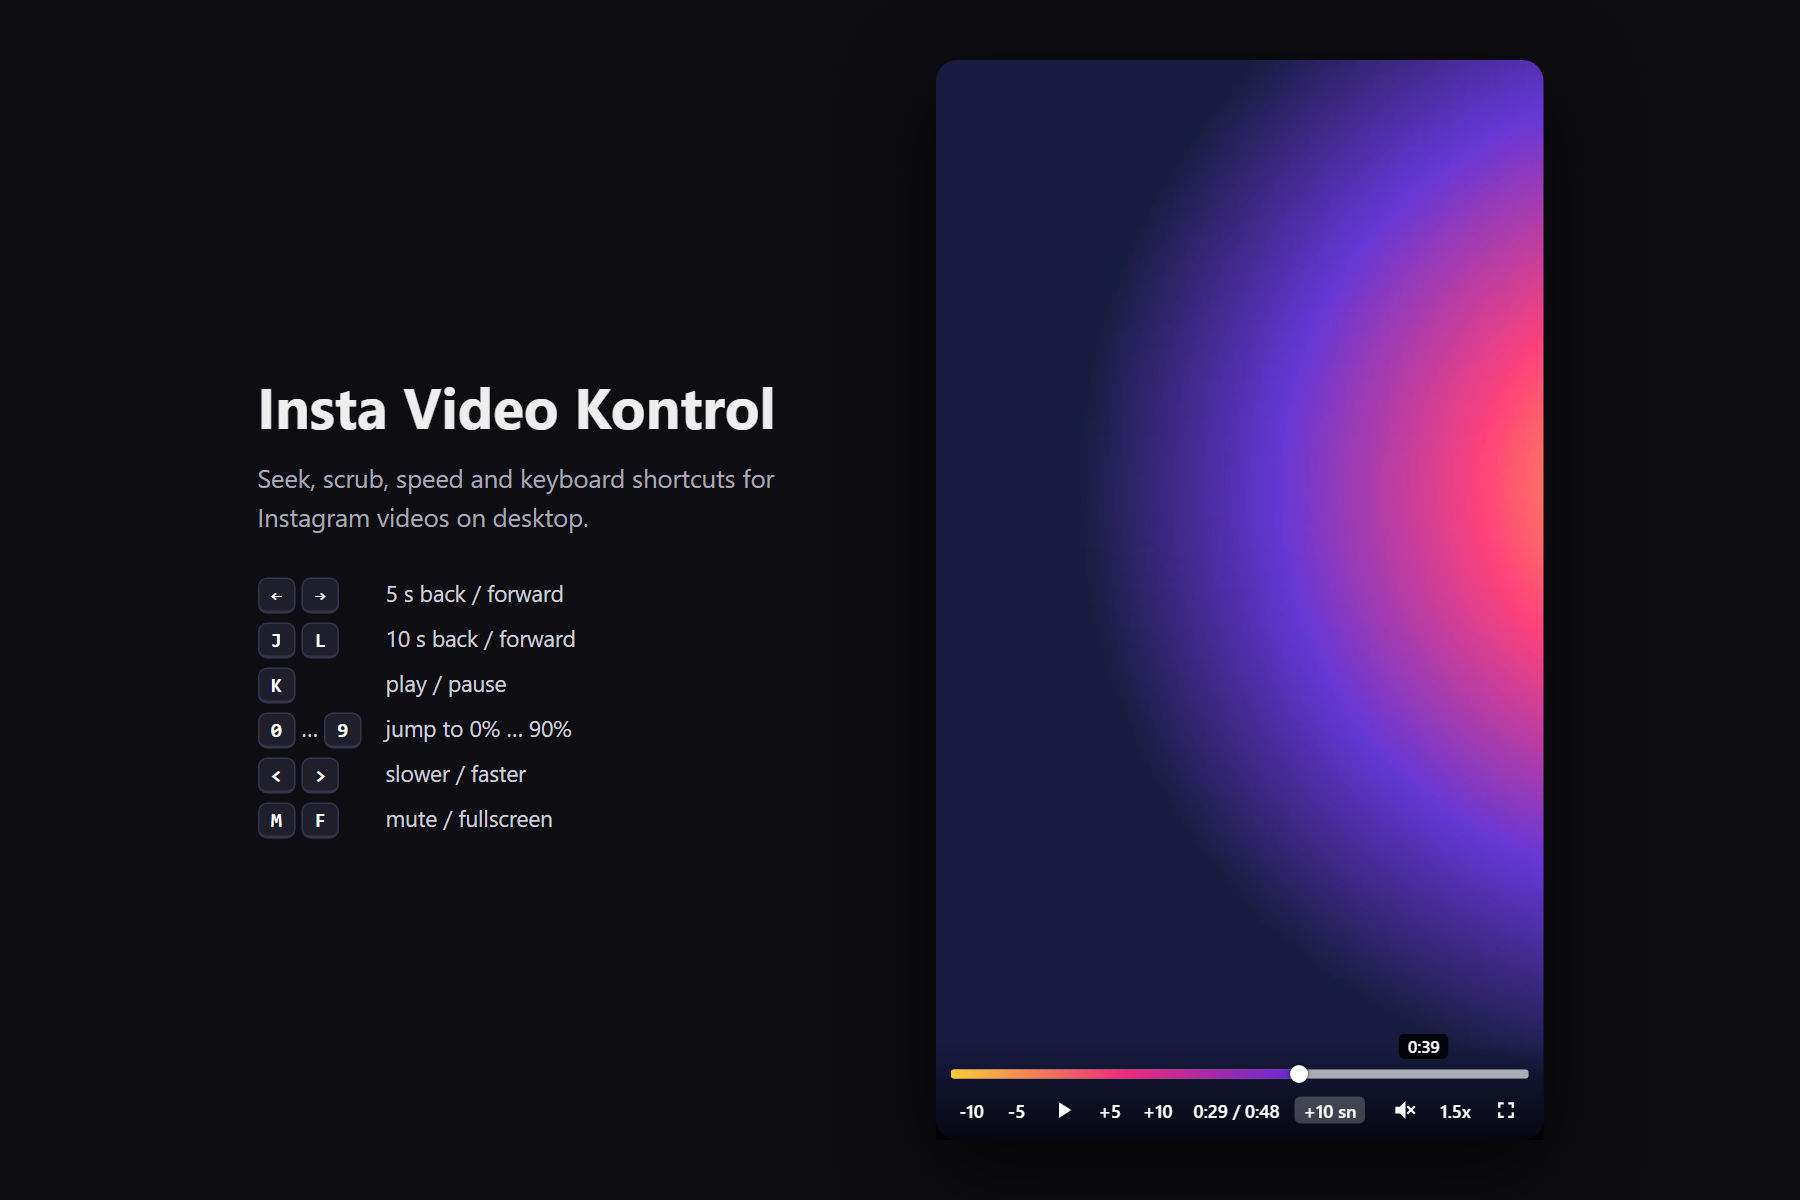
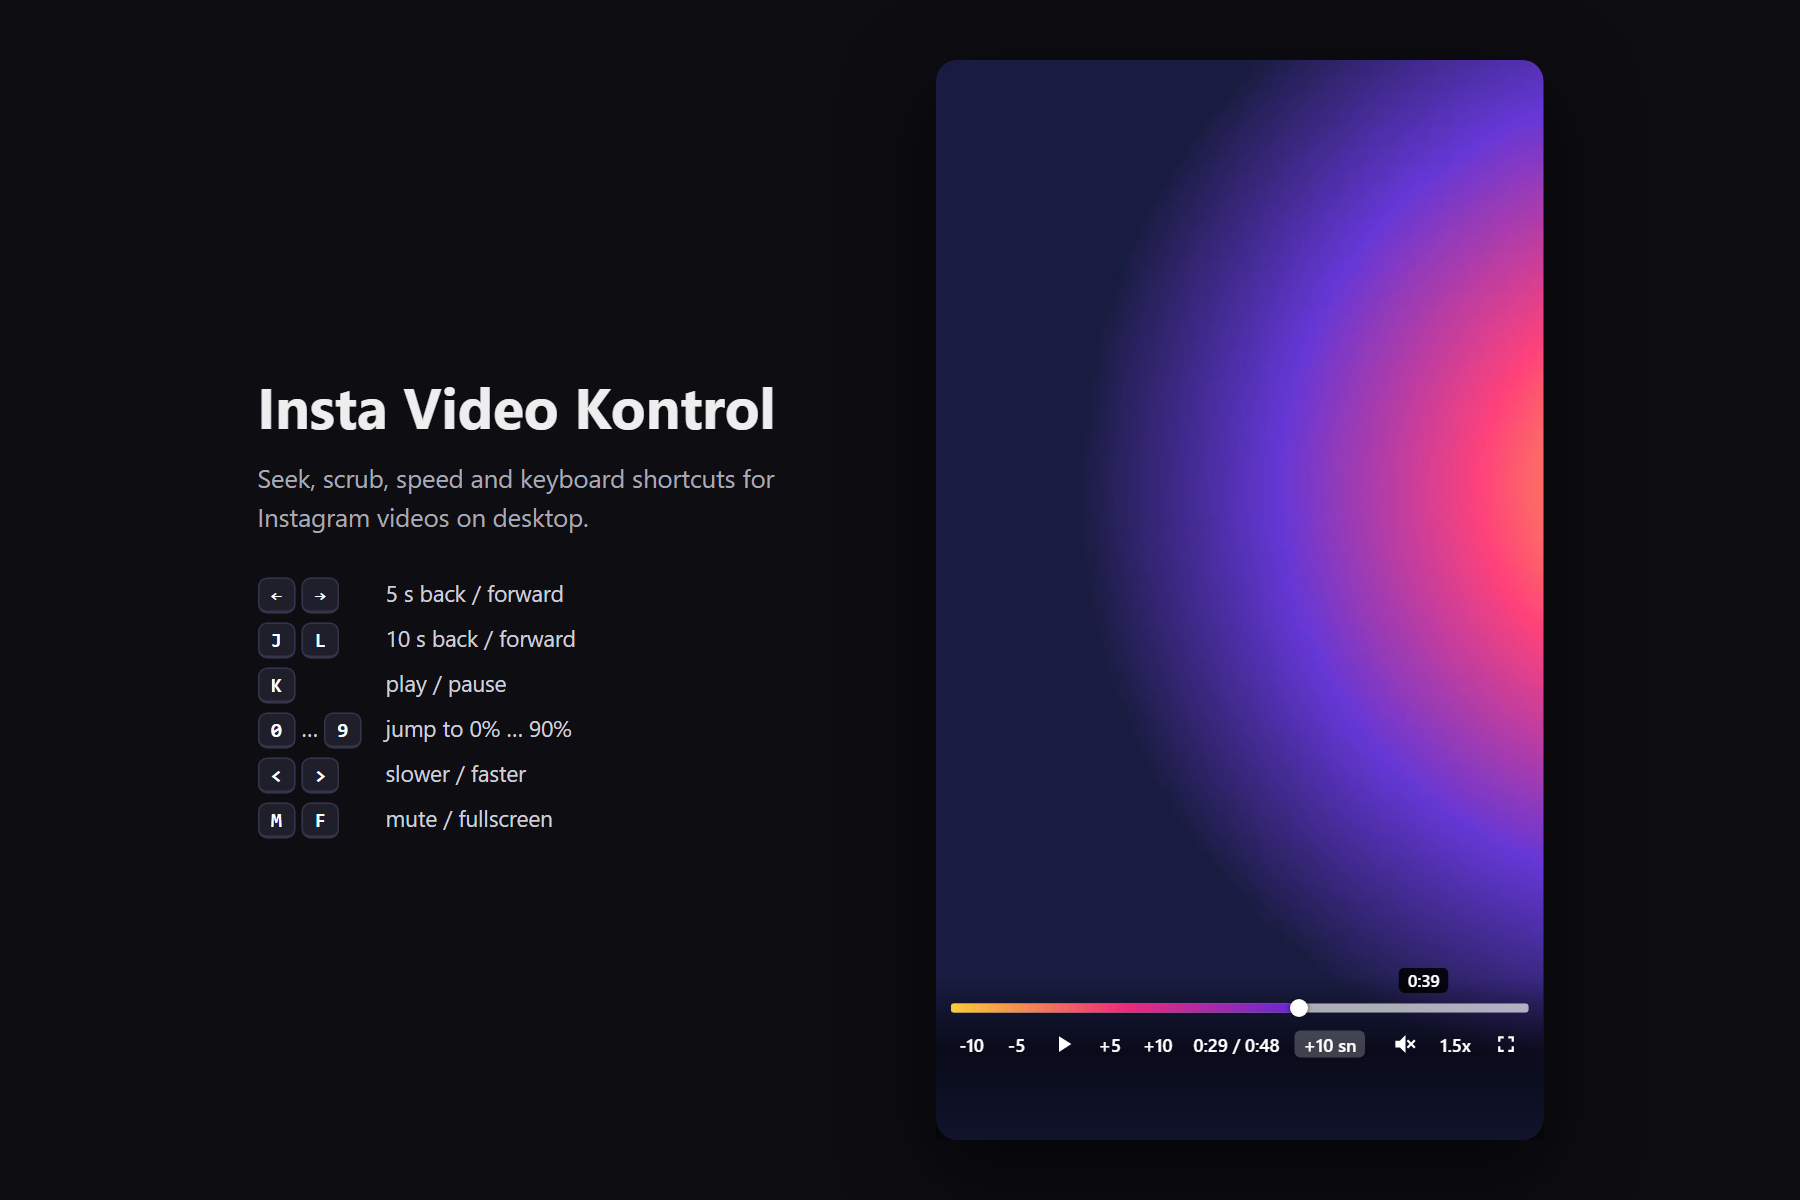
Remember sound across videos and keep Instagram's own mute button clickable
Instagram starts every video muted, so sound had to be turned on again for
each one, and the bar covered Instagram's speaker icon.

- Sound preference is saved; new videos are unmuted when they start playing.
  A mute change counts as the user's choice only right after a real click on
  that video; Instagram's own muting is undone at most 3 times per video.
- Controls sit 44 px above the bottom edge and the bar lets clicks through
  everywhere except its buttons and progress bar.

Changed region(s): [[0.4978, 0.8017, 0.8711, 0.9558]]

diff --git a/content.js b/content.js
@@ -12,6 +12,9 @@
   const MIN_W = 160;
   const MIN_H = 120;
   const BAR_H = 64;
+  // Free strip under the controls so Instagram's own corner buttons (mute, tags) stay clickable.
+  const BOTTOM_GAP = 44;
+  const SOUND_KEY = 'ivk-sound';
 
   const ICON = {
     play: '<svg viewBox="0 0 24 24"><path d="M8 5v14l11-7z"/></svg>',
@@ -26,15 +29,16 @@
   host.setAttribute('data-ivk', '');
   Object.assign(host.style, {
     position: 'fixed', left: '0px', top: '0px', width: '0px', height: '0px',
-    zIndex: '2147483647', display: 'none', margin: '0', padding: '0', border: '0'
+    zIndex: '2147483647', display: 'none', margin: '0', padding: '0', border: '0',
+    pointerEvents: 'none' // only the track and buttons take clicks; the rest falls through to Instagram
   });
   const root = host.attachShadow({ mode: 'open' });
   root.innerHTML = `
 <style>
 .wrap{position:absolute;inset:0;display:flex;flex-direction:column;justify-content:flex-end;padding:0 10px 4px;box-sizing:border-box;
-  background:linear-gradient(to bottom,rgba(0,0,0,0),rgba(0,0,0,.75));
+  pointer-events:none;background:linear-gradient(to bottom,rgba(0,0,0,0),rgba(0,0,0,.6) 45%,rgba(0,0,0,.3));
   font:600 12px/1 -apple-system,"Segoe UI",Roboto,Arial,sans-serif;color:#fff;-webkit-user-select:none;user-select:none}
-.track{position:relative;height:16px;cursor:pointer;touch-action:none;flex:none}
+.track{position:relative;height:16px;cursor:pointer;touch-action:none;flex:none;pointer-events:auto}
 .rail,.buf,.fill{position:absolute;left:0;top:6px;height:4px;border-radius:2px}
 .rail{right:0;background:rgba(255,255,255,.3)}
 .buf{width:0;background:rgba(255,255,255,.5)}
@@ -47,7 +51,7 @@
   font-size:11px;display:none;white-space:nowrap;pointer-events:none}
 .row{display:flex;align-items:center;gap:2px;height:32px;flex:none}
 button{all:unset;box-sizing:border-box;height:28px;min-width:28px;padding:0 6px;border-radius:6px;display:inline-flex;align-items:center;
-  justify-content:center;cursor:pointer;color:#fff;font:inherit;white-space:nowrap}
+  justify-content:center;cursor:pointer;color:#fff;font:inherit;white-space:nowrap;pointer-events:auto}
 button:hover{background:rgba(255,255,255,.2)}
 svg{width:18px;height:18px;fill:currentColor;display:block}
 .time{margin-left:6px;font-variant-numeric:tabular-nums;white-space:nowrap}
@@ -108,6 +112,11 @@ svg{width:18px;height:18px;fill:currentColor;display:block}
   let flashTimer = 0;
   let lastPlayIcon = '';
   let lastMuteIcon = '';
+  let wantSound = false; // remembered "sound on" preference, applied to every new video
+  try { wantSound = localStorage.getItem(SOUND_KEY) === '1'; } catch (_) { /* ignore */ }
+  let selfChangeAt = -1e9; // when we last changed muted/volume ourselves
+  let lastUserInputAt = -1e9; // last real click/key, to tell Instagram's mute button from its autoplay muting
+  const unmuteTries = new WeakMap();
 
   // ---------- helpers ----------
   const clamp = (n, a, b) => Math.min(Math.max(n, a), b);
@@ -196,10 +205,78 @@ svg{width:18px;height:18px;fill:currentColor;display:block}
     }
   }
 
+  function setWantSound(on) {
+    wantSound = on;
+    try { localStorage.setItem(SOUND_KEY, on ? '1' : '0'); } catch (_) { /* ignore */ }
+  }
+
+  function setMuted(v, muted) {
+    const wasPlaying = !v.paused;
+    selfChangeAt = performance.now();
+    v.muted = muted;
+    if (!muted && v.volume === 0) v.volume = 1;
+    if (!muted && wasPlaying) {
+      // Chrome pauses a video unmuted without user activation; fall back to muted playback then.
+      setTimeout(() => {
+        if (v.paused) {
+          selfChangeAt = performance.now();
+          v.muted = true;
+          const p = v.play();
+          if (p && p.catch) p.catch(() => {});
+        }
+      }, 0);
+    }
+  }
+
   function toggleMute(v) {
-    v.muted = !v.muted;
-    if (!v.muted && v.volume === 0) v.volume = 1;
-    flash(v.muted ? 'Ses kapali' : 'Ses acik');
+    const muted = !v.muted;
+    setMuted(v, muted);
+    setWantSound(!muted);
+    flash(muted ? 'Ses kapali' : 'Ses acik');
+  }
+
+  // Unmute a video Instagram started muted, if the user wants sound. Capped per video so we
+  // never end up in a tug of war with Instagram re-muting it.
+  function applySound(v) {
+    if (!wantSound || !v.muted) return;
+    const ua = navigator.userActivation;
+    if (ua && !ua.hasBeenActive) return; // autoplay policy: wait for the first click/key on the page
+    const now = performance.now();
+    const t = unmuteTries.get(v) || { n: 0, at: 0 };
+    if (now - t.at > 3000) t.n = 0;
+    if (t.n >= 3) return;
+    t.n++;
+    t.at = now;
+    unmuteTries.set(v, t);
+    setMuted(v, false);
+  }
+
+  document.addEventListener('play', (e) => {
+    if (e.target instanceof HTMLVideoElement) applySound(e.target);
+  }, true);
+
+  document.addEventListener('volumechange', (e) => {
+    const v = e.target;
+    if (!(v instanceof HTMLVideoElement)) return;
+    const now = performance.now();
+    if (now - selfChangeAt < 150) return; // our own change
+    if (now - lastUserInputAt < 1000 && clickedInside(v)) {
+      setWantSound(!v.muted); // user pressed Instagram's own mute button (or tapped the video)
+    } else if (v.muted) {
+      applySound(v); // Instagram muted it on its own (autoplay, re-render)
+    }
+  }, true);
+
+  // The video that was under the pointer at the last real click (Instagram's mute button sits on it).
+  let lastClickVideo = null;
+  window.addEventListener('pointerdown', (e) => {
+    if (!e.isTrusted) return;
+    lastUserInputAt = performance.now();
+    lastClickVideo = videoAt(e.clientX, e.clientY);
+  }, true);
+
+  function clickedInside(v) {
+    return lastClickVideo === v;
   }
 
   function stepSpeed(v, dir) {
@@ -307,6 +384,7 @@ svg{width:18px;height:18px;fill:currentColor;display:block}
     if (dragging) return;
     const v = mouse.inside ? videoAt(mouse.x, mouse.y) : null;
     if (v) {
+      if (v !== hovered) applySound(v);
       hovered = v;
       active = v;
       hideAt = 0;
@@ -396,9 +474,11 @@ svg{width:18px;height:18px;fill:currentColor;display:block}
 
     host.style.display = 'block';
     host.style.left = `${r.left}px`;
-    host.style.top = `${r.bottom - BAR_H}px`;
+    const gap = r.height >= 300 ? BOTTOM_GAP : 0;
+    host.style.top = `${r.bottom - BAR_H - gap}px`;
     host.style.width = `${r.width}px`;
-    host.style.height = `${BAR_H}px`;
+    host.style.height = `${BAR_H + gap}px`;
+    wrap.style.paddingBottom = `${4 + gap}px`;
     wrap.classList.toggle('compact', r.width < 380);
 
     const v = active;

diff --git a/README.md b/README.md
@@ -11,9 +11,11 @@ Instagram's desktop site plays videos and reels with no seek bar: if you miss a 
 - **Progress bar**: click or drag anywhere to jump; hovering shows the time under the cursor; the buffered range is shown behind it
 - **Seek buttons**: `-10` `-5` `+5` `+10` seconds
 - **Play / pause, mute, playback speed** (0.5x to 2x) and **fullscreen** (with Chrome's native controls)
+- **Remembers sound**: Instagram starts every video muted. Turn the sound on once (with the bar, <kbd>M</kbd> or Instagram's own speaker button) and every following video plays with sound; mute again to go back
 - **Keyboard shortcuts** that do not break Instagram's own navigation
+- **Stays out of the way**: the controls sit just above Instagram's own corner buttons (mute, tags), and only the buttons and the progress bar take clicks; the rest of the bar lets clicks through to the video
 - Built for the feed, reels, post pages, the post modal and stories
-- **No permissions, no network requests, no tracking**: a single content script, about 430 lines of plain JavaScript
+- **No permissions, no network requests, no tracking**: a single content script, about 500 lines of plain JavaScript
 
 ## Keyboard shortcuts
 
@@ -52,6 +54,7 @@ Instead, the extension:
 1. Keeps **one** control bar in a shadow root attached directly to `<html>`, outside Instagram's React tree. Instagram's overlays can never cover it, its styles cannot leak in, and clicks on the bar are stopped before Instagram sees them.
 2. On mouse move and scroll, finds the video under the cursor by comparing the pointer with each video's **visible** rectangle (clipped by `overflow: hidden` ancestors and the viewport).
 3. While the bar is visible, a `requestAnimationFrame` loop pins it to the bottom of that video and updates time, progress and buffer. When the bar is hidden, nothing runs.
+4. For sound, it listens to `play` and `volumechange` on all videos. A mute change right after a real click on that video counts as your choice and is saved (`localStorage`, key `ivk-sound`). A mute that Instagram applies on its own (autoplay, re-render) is undone while sound is wanted, at most three times per video so it never fights Instagram in a loop. Chrome's autoplay policy only allows sound after your first click or key press on the page; until then videos stay muted.
 
 ## Notes
 
